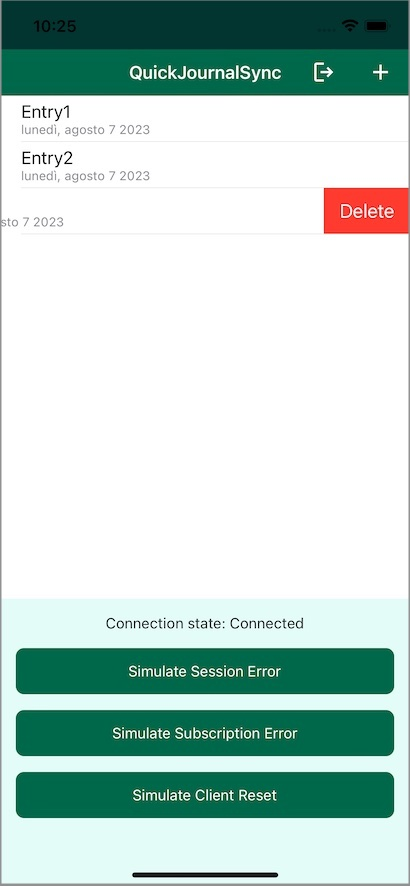
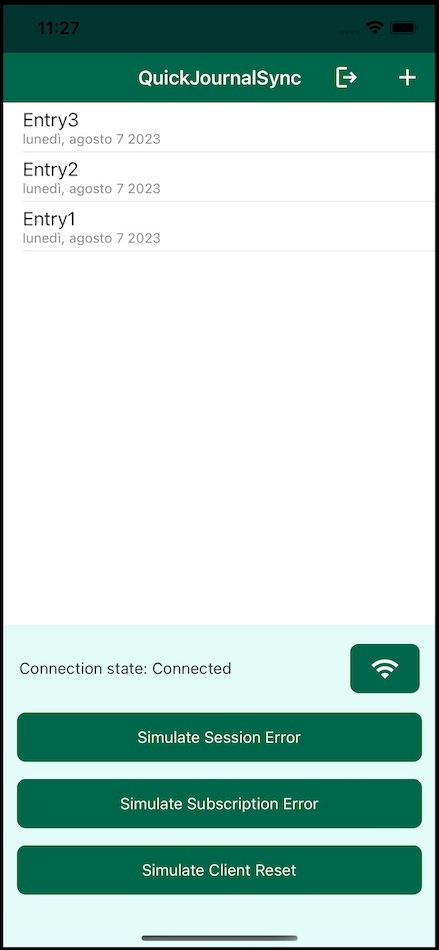
Fixes folloing PR comments [skip-ci]

diff --git a/examples/QuickJournalSync/Views/EntriesPage.xaml b/examples/QuickJournalSync/Views/EntriesPage.xaml
@@ -31,7 +31,7 @@
         <Grid>
             <Grid.RowDefinitions>
                 <RowDefinition Height="2*" />
-                <RowDefinition Height="*" />
+                <RowDefinition Height="1.1*" />
             </Grid.RowDefinitions>
             <ListView ItemsSource="{Binding Entries}"
                   SelectionMode="None"
@@ -58,7 +58,16 @@
             <VerticalStackLayout BackgroundColor="#E3FCF7"
                 Padding="15" Spacing="15"
                 Grid.Row="1">
-                <Label Text="{Binding ConnectionState, StringFormat='Connection state: {0}'}" HorizontalTextAlignment="Center" />
+                <StackLayout Orientation="Horizontal"
+                             Padding="2">
+                   <Label Text="{Binding ConnectionState, StringFormat='Connection state: {0}'}" 
+                          HorizontalTextAlignment="Center" VerticalOptions="Center"
+                          HorizontalOptions="StartAndExpand"/>
+                   <Button ImageSource="{Binding ConnectionStatusIcon}"
+                                Command="{Binding ChangeConnectionStatusCommand}"
+                                HorizontalOptions="End"
+                                VerticalOptions="Center"/>
+                </StackLayout>
                 <Button Text="Simulate Session Error" Command="{Binding SimulateSessionErrorCommand}"/>
                 <Button Text="Simulate Subscription Error" Command="{Binding SimulateSubscriptionErrorCommand}"/>
                 <Button Text="Simulate Client Reset" Command="{Binding SimulateClientResetCommand}"/>

diff --git a/examples/QuickJournalSync/ViewModels/EntriesViewModel.cs b/examples/QuickJournalSync/ViewModels/EntriesViewModel.cs
@@ -14,6 +14,11 @@ namespace QuickJournalSync.ViewModels
     {
         private readonly Realm _realm;
 
+        private bool isOnline = true;
+
+        [ObservableProperty]
+        private string connectionStatusIcon = "wifi_on.png";
+
         [ObservableProperty]
         private IQueryable<JournalEntry>? _entries;
 
@@ -102,6 +107,23 @@ namespace QuickJournalSync.ViewModels
             await DialogService.ShowAlertAsync("Client Reset",
                 "You can simulate a client reset by terminating an re-enabling Device Sync.",
                 "OK");
+        }
+
+        [RelayCommand]
+        public void ChangeConnectionStatus()
+        {
+            isOnline = !isOnline;
+
+            if (isOnline)
+            {
+                _realm.SyncSession.Start();
+            }
+            else
+            {
+                _realm.SyncSession.Stop();
+            }
+
+            ConnectionStatusIcon = isOnline ? "wifi_on.png" : "wifi_off.png";
         }
 
         private void HandleSyncConnectionStateChanged(object? sender, ConnectionState newConnectionState)

diff --git a/examples/QuickJournalSync/Models/JournalEntry.cs b/examples/QuickJournalSync/Models/JournalEntry.cs
@@ -17,7 +17,7 @@ namespace QuickJournalSync.Models
 
         public string? Body { get; set; }
 
-        public DateTimeOffset CreatedDate { get; set; }
+        public DateTimeOffset CreatedDate { get; private set; }
 
         // This is only used to simulate a subscription error at the moment.
         public IList<string> Tags { get; } = null!;
@@ -30,6 +30,7 @@ namespace QuickJournalSync.Models
             }
 
             UserId = RealmService.CurrentUser.Id;
+            CreatedDate = DateTimeOffset.Now;
         }
     }
 }

diff --git a/examples/QuickJournalSync/Services/RealmService.cs b/examples/QuickJournalSync/Services/RealmService.cs
@@ -187,7 +187,6 @@ namespace QuickJournalSync.Services
             {
                 return realm.Add(new JournalEntry
                 {
-                    CreatedDate = DateTimeOffset.Now,
                     UserId = ObjectId.GenerateNewId().ToString(),
                 });
             });

diff --git a/examples/QuickJournalSync/README.md b/examples/QuickJournalSync/README.md
@@ -38,7 +38,7 @@ In order to run the example project you need to:
 The sample app is composed of 3 pages:
 - `LoginPage`: it is the page that appears on the first startup of the application, where the user can sign up or login. After the user is logged in, the app transitions to the `EntriesPage`;
 - `EntriesPage`: it is the main page of the application. On the top there is the list of the journal entries, and at the bottom there are 3 buttons that can be used to simulate different kind of errors. It is possible to delete entries or add new one by clicking the plus button in the toolbar. It is also possible to logout the current user by clicking the corresponding button in the toolbar, and this will make the app return to the login page.
-The bottom part of the screen also contains a label that contains the current connection state.
+The bottom part of the screen also contains a label that contains the current connection state, and a button to stop and resume sync.
 - `EntryDetailPage`: it is the page where users can modify or create journal entries by specifying their title and body. 
 
 There is only one realm object in the sample application, `JournalEntry`:
@@ -56,7 +56,7 @@ public partial class JournalEntry : IRealmObject
 
     public string? Body { get; set; }
 
-    public DateTimeOffset CreatedDate { get; set; }
+    public DateTimeOffset CreatedDate { get; private set; }
 
     // This is only used to simulate a subscription error at the moment.
     public IList<string> Tags { get; } = null!;
@@ -69,6 +69,7 @@ public partial class JournalEntry : IRealmObject
         }
 
         UserId = RealmService.CurrentUser.Id;
+        CreatedDate = DateTimeOffset.Now;
     }
 }
 ```
@@ -236,7 +237,7 @@ When reacting to connection state changes, please remember that those changes co
 
 ### Simulate connection state changes in the app
 
-You can simulate connection state changes in the app by disabling the internet connection of the testing device, for instance. The app will show a toast when the connection state changes, as well as show the current connection state in the bottom part of the main page.
+You can simulate connection state changes in the app by clicking the button next to the connection state label, that will stop and resume the sync session. The app will show a toast when the connection state changes, as well as show the current connection state in the bottom part of the main page.
 
 ## Error handling
 
